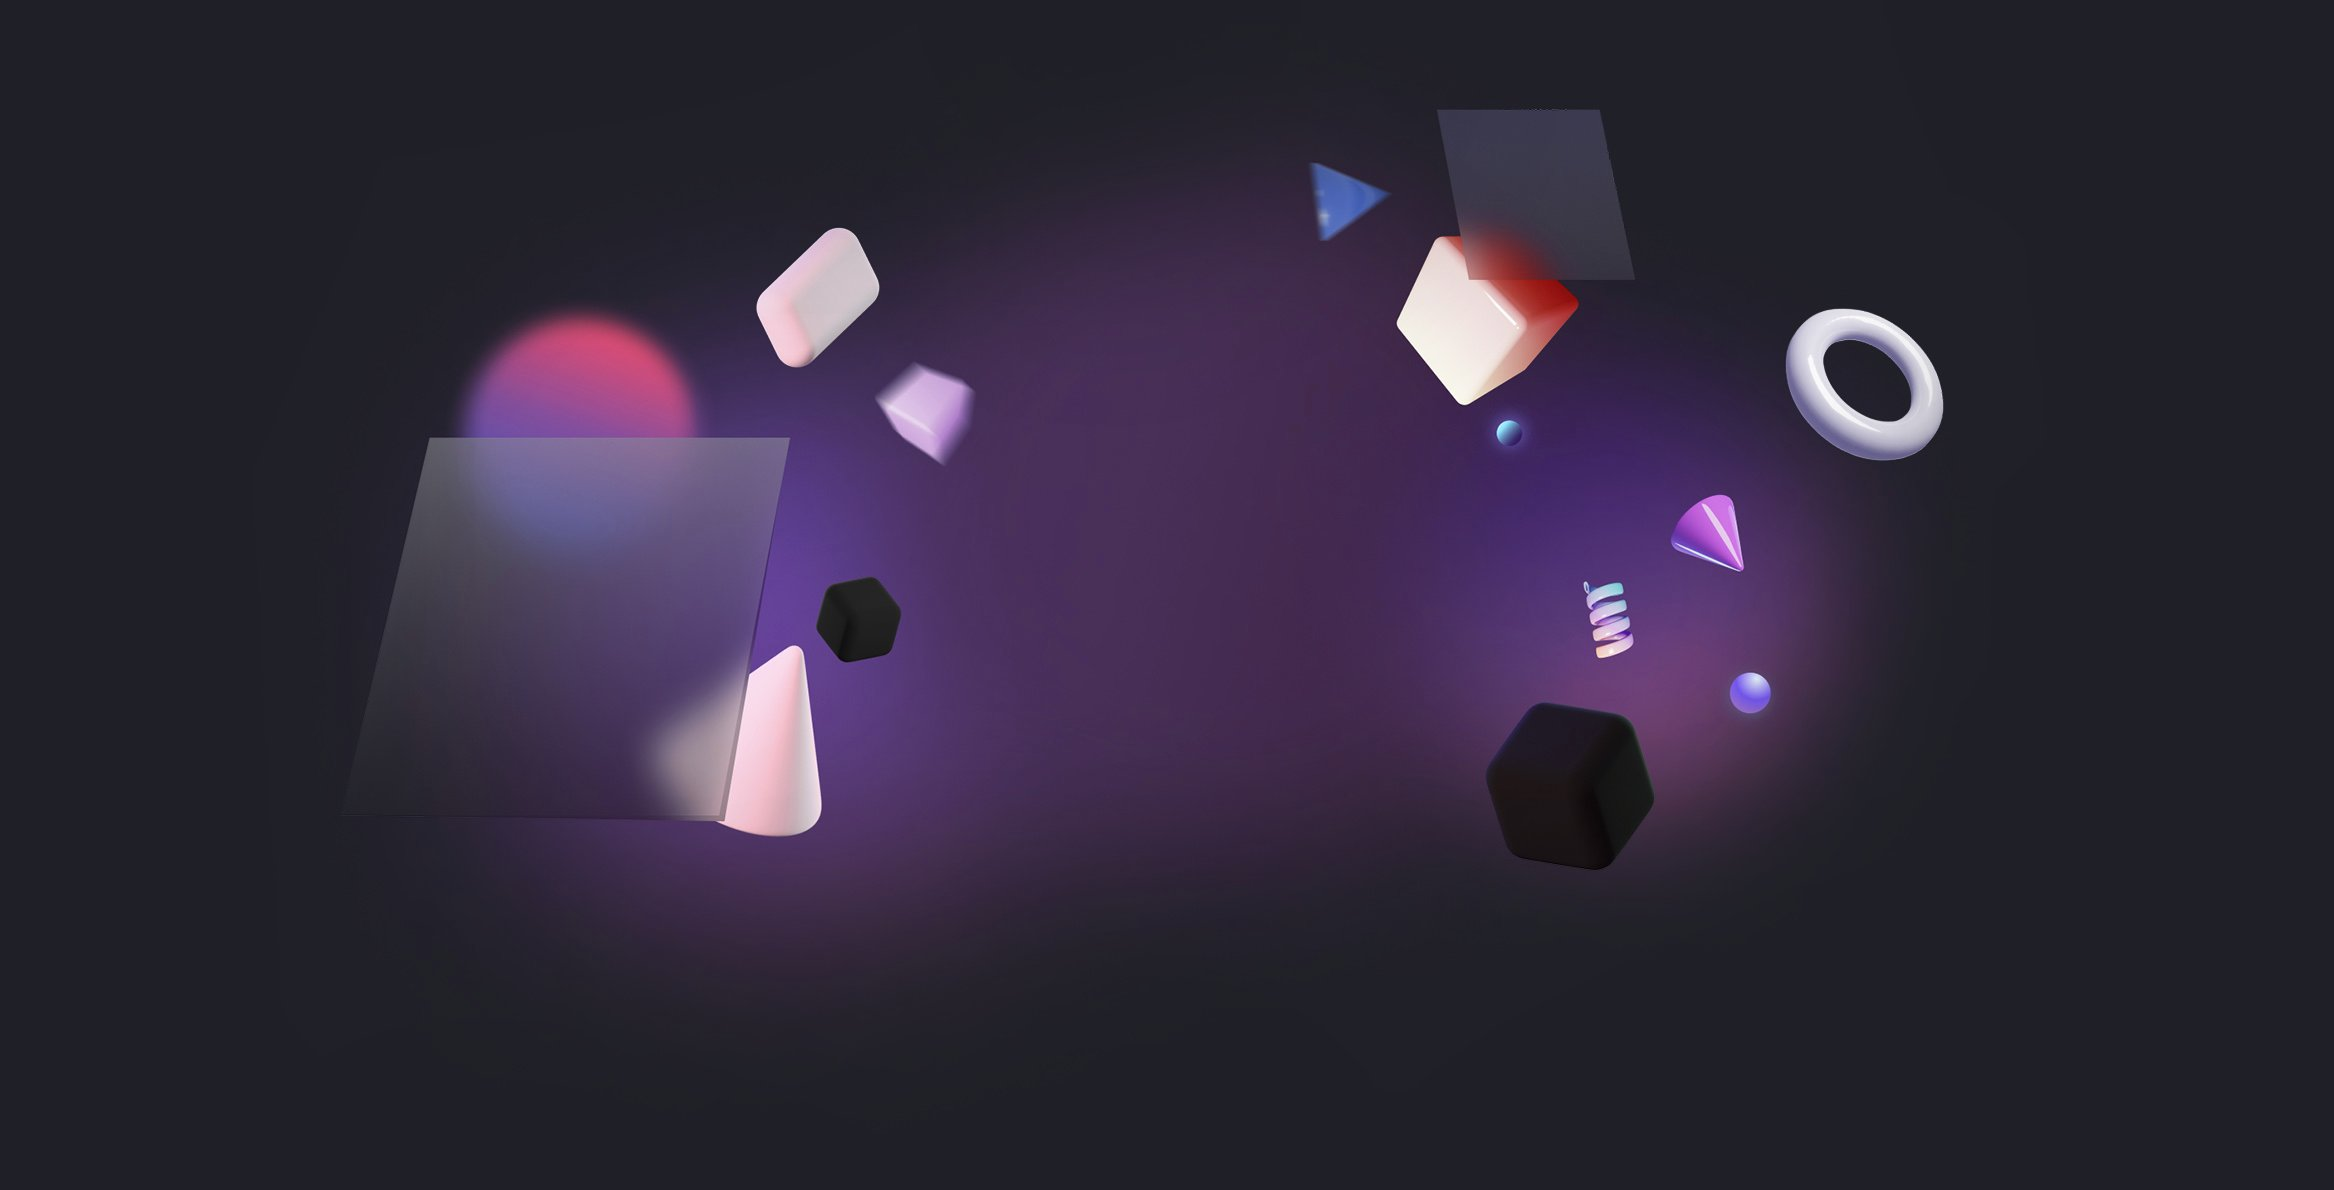
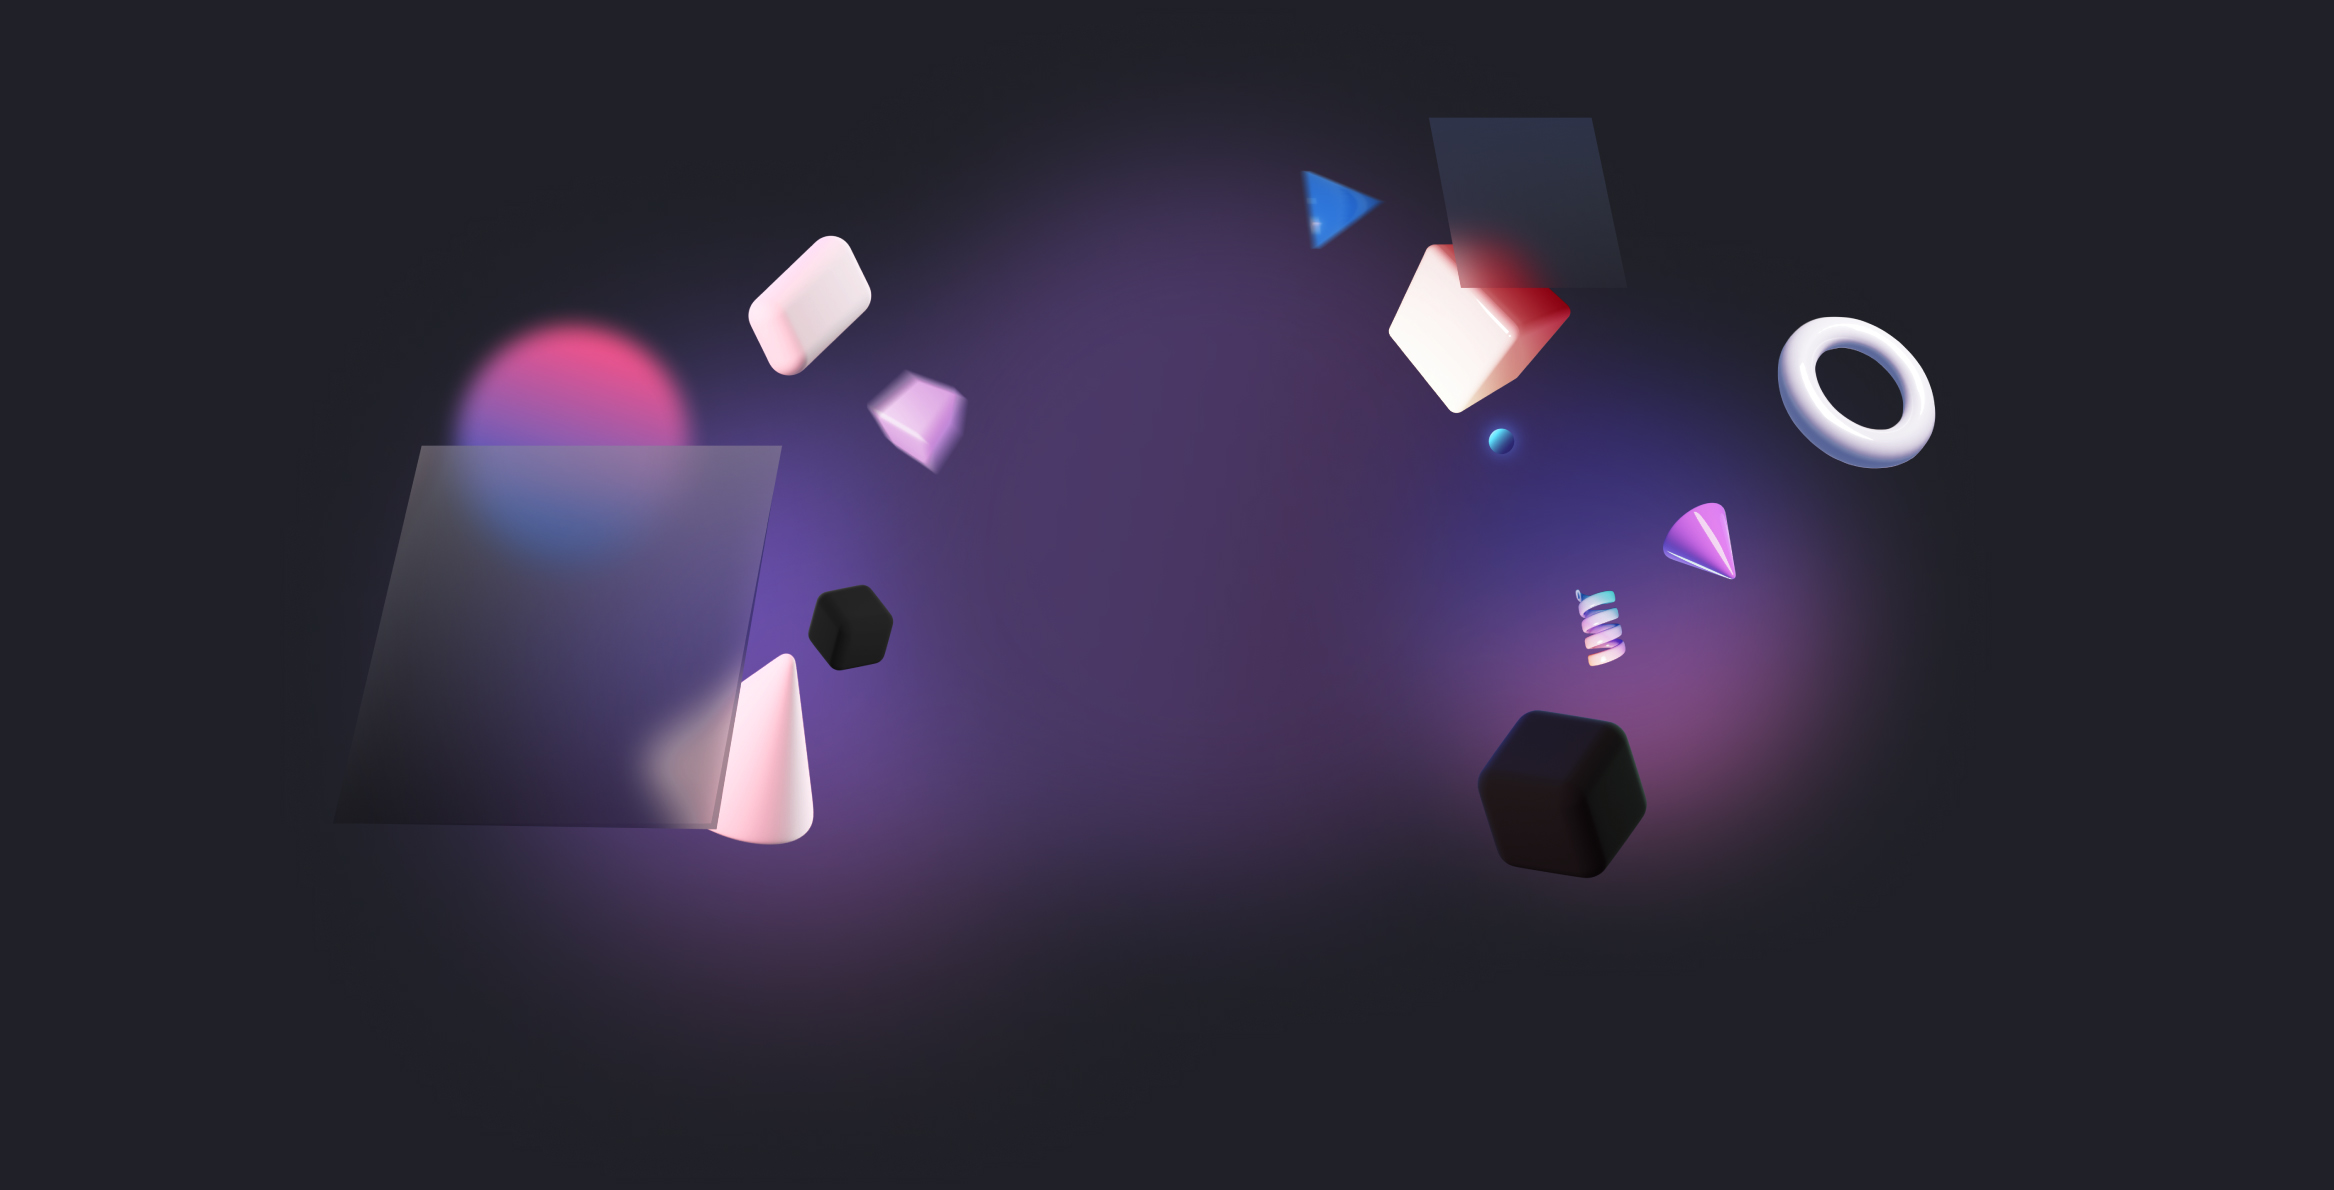
docs: use jpg

diff --git a/website/pages/index.js b/website/pages/index.js
@@ -53,7 +53,7 @@ function HomePage() {
   const [hideBanner, setHideBanner] = useState(true);
 
   useEffect(() => {
-    bannerRef.current.src = '/floating-ui.webp';
+    bannerRef.current.src = '/floating-ui.jpg';
   }, []);
 
   return (
